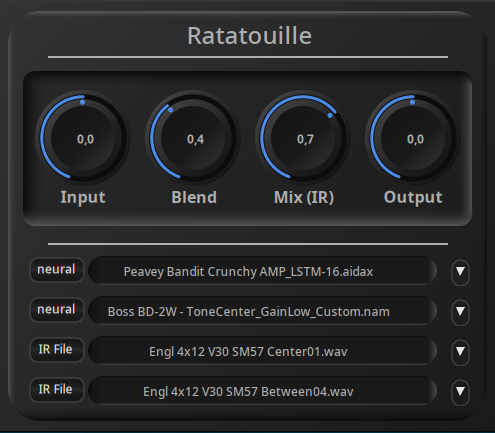
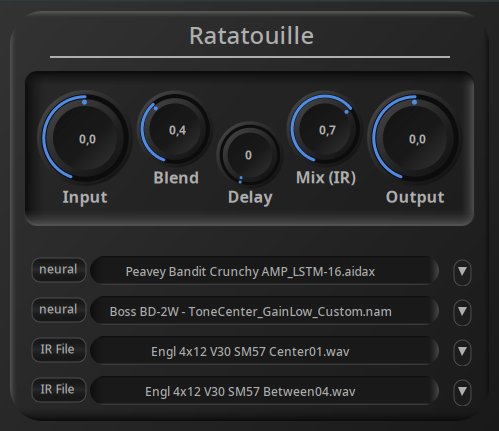
Add delay to Readme and screen shot

diff --git a/README.md b/README.md
@@ -13,6 +13,9 @@ You can also load just a single model file, in that case the "Blend" control wil
 When you've loaded a second model, the "Blend" control will blend between the two models and
 mix them to simulate your specific tone.
 
+The "Delay" control could add a small delay to the second model to overcome phasing issues,
+or to add some color/reverb to the sound. 
+
 To round up your sound you can load two Impulse Response Files and mix them to your needs.
 
 Ratatouille.lv2 supports resampling when needed to match the expected sample rate of the 
